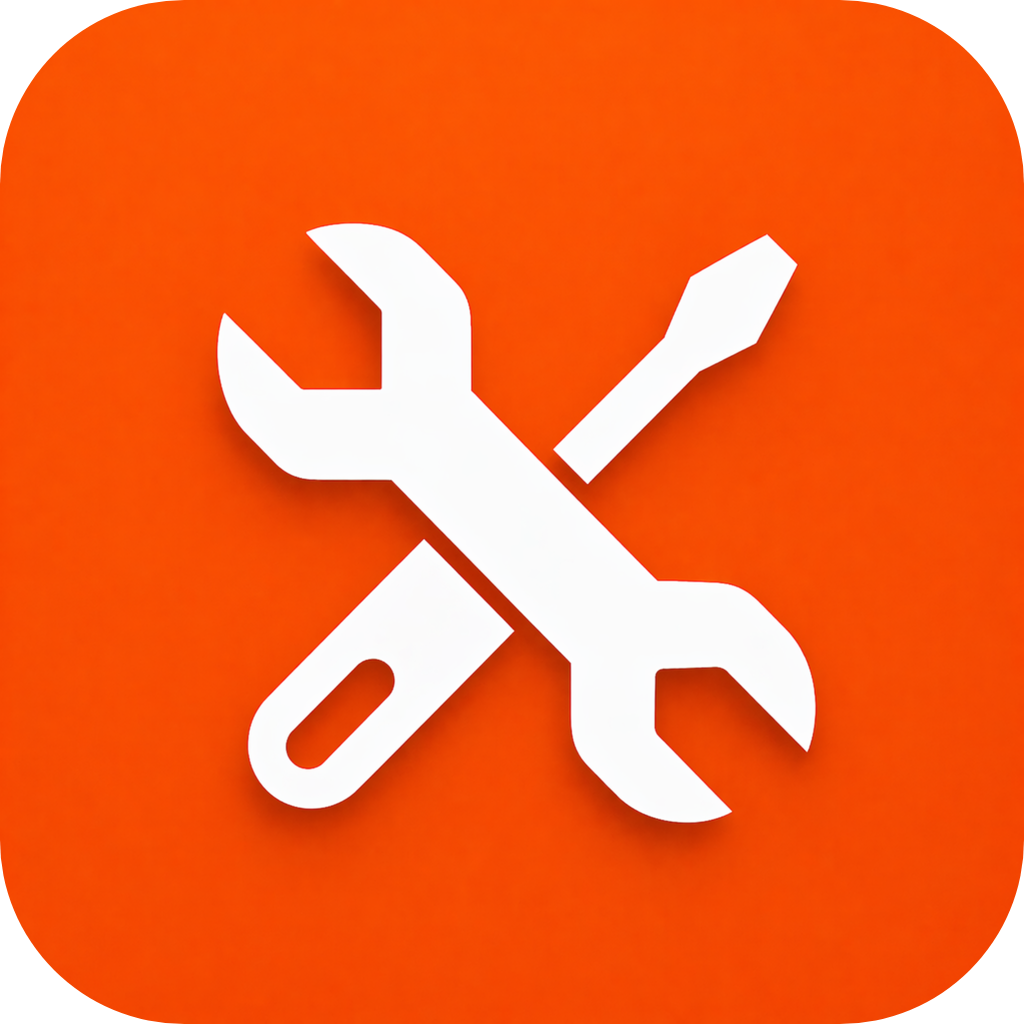
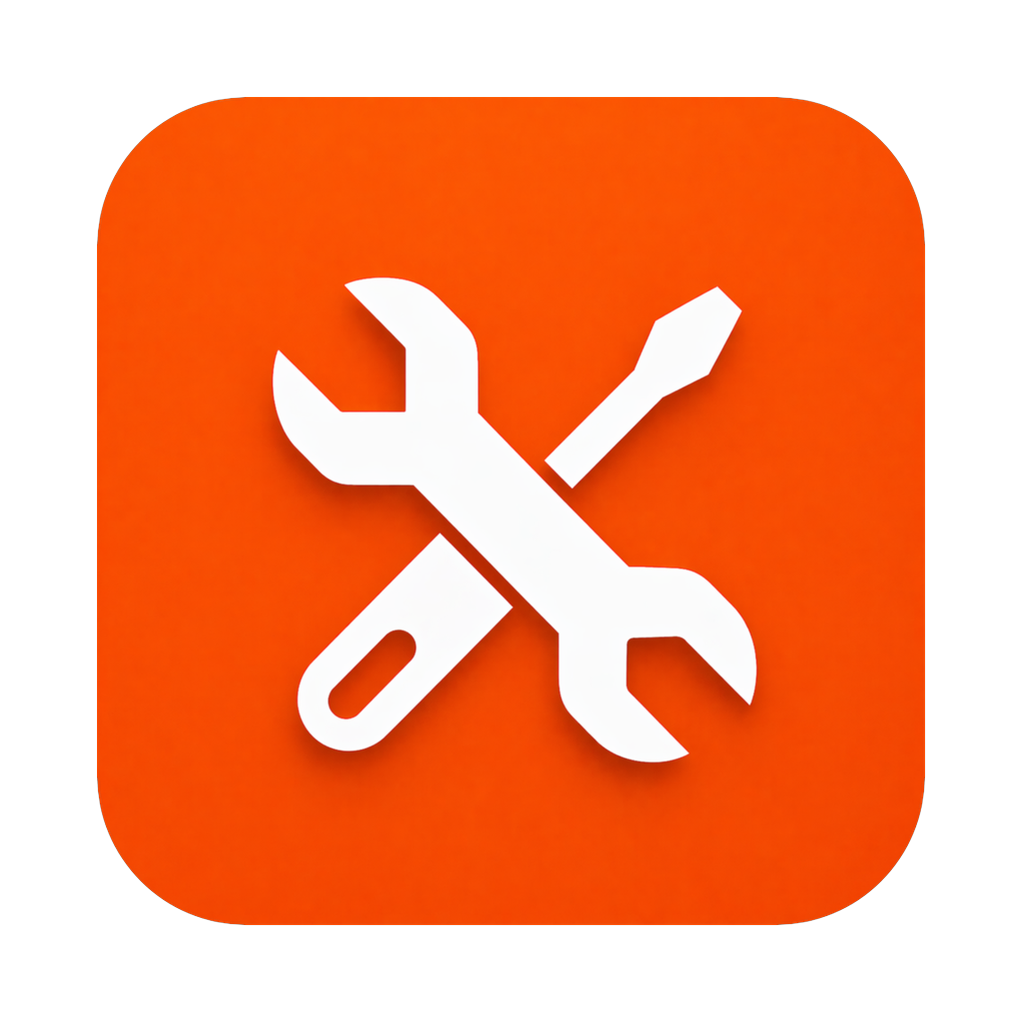
all mobile app filessს

diff --git a/src/screens/AdminScreen.js b/src/screens/AdminScreen.js
@@ -2,7 +2,7 @@
 import React, { useState, useCallback, useEffect } from 'react';
 import {
   View, Text, ScrollView, TouchableOpacity, ActivityIndicator,
-  RefreshControl, Alert, FlatList, TextInput, Modal,
+  RefreshControl, Alert, FlatList, TextInput, Modal, Switch,
 } from 'react-native';
 import { useFocusEffect } from '@react-navigation/native';
 import { useSafeAreaInsets } from 'react-native-safe-area-context';
@@ -189,11 +189,12 @@ function UserOffersModal({ userId, userName, visible, onClose, navigation }) {
 }
 
 // ────────── User detail modal ──────────
-function UserDetailModal({ userId, visible, onClose, onBlockToggle, navigation }) {
+function UserDetailModal({ userId, visible, onClose, onBlockToggle, navigation, isAdmin }) {
   const [user, setUser] = useState(null);
   const [loading, setLoading] = useState(false);
   const [showRequests, setShowRequests] = useState(false);
   const [showOffers, setShowOffers] = useState(false);
+  const [unlimitedToggling, setUnlimitedToggling] = useState(false);
 
   const load = useCallback(async () => {
     if (!userId) return;
@@ -207,6 +208,19 @@ function UserDetailModal({ userId, visible, onClose, onBlockToggle, navigation }
   useEffect(() => {
     if (visible) { setShowRequests(false); setShowOffers(false); load(); }
   }, [visible, userId]);
+
+  async function toggleStartUnlimited(value) {
+    if (unlimitedToggling || !user) return;
+    setUnlimitedToggling(true);
+    try {
+      await api(`/admin/users/${user.id}/start-unlimited`, { method: 'PATCH', body: { startUnlimited: value } });
+      setUser(prev => ({ ...prev, startUnlimited: value }));
+    } catch (e) {
+      Alert.alert('შეცდომა', e.error || 'ვერ შესრულდა');
+    } finally {
+      setUnlimitedToggling(false);
+    }
+  }
 
   if (!visible) return null;
 
@@ -313,6 +327,21 @@ function UserDetailModal({ userId, visible, onClose, onBlockToggle, navigation }
                       </View>
                     </View>
                   ) : null}
+                  {isAdmin ? (
+                    <View style={{ marginTop:12, paddingTop:12, borderTopWidth:1, borderTopColor:C.border, flexDirection:'row', alignItems:'center', justifyContent:'space-between' }}>
+                      <View style={{ flex:1, marginRight:12 }}>
+                        <Text style={{ color:C.text, fontWeight:'700', fontSize:13 }}>∞ ულიმიტო Start (3 თვე)</Text>
+                        <Text style={{ color:C.text2, fontSize:11, marginTop:2 }}>5 შეთ./30 დღის ლიმიტი გაუქმდება trial-ის განმავლობაში</Text>
+                      </View>
+                      <Switch
+                        value={!!user.startUnlimited}
+                        onValueChange={toggleStartUnlimited}
+                        disabled={unlimitedToggling}
+                        trackColor={{ false: C.border, true: C.accent }}
+                        thumbColor={'#fff'}
+                      />
+                    </View>
+                  ) : null}
                 </View>
               )}
 
@@ -388,7 +417,7 @@ function UserDetailModal({ userId, visible, onClose, onBlockToggle, navigation }
 }
 
 // ────────── Accounts tab ──────────
-function AccountsTab({ navigation }) {
+function AccountsTab({ navigation, isAdmin }) {
   const [users, setUsers] = useState([]);
   const [loading, setLoading] = useState(true);
   const [filter, setFilter] = useState('all');
@@ -490,6 +519,7 @@ function AccountsTab({ navigation }) {
         onClose={() => { setDetailVisible(false); setSelectedUserId(null); }}
         onBlockToggle={toggleBlock}
         navigation={navigation}
+        isAdmin={isAdmin}
       />
     </View>
   );
@@ -738,7 +768,7 @@ export default function AdminScreen({ navigation }) {
       {/* Content */}
       <View style={{ flex:1 }}>
         {tab === 'analytics' && isAdmin && <AnalyticsTab/>}
-        {tab === 'accounts'  && <AccountsTab navigation={navigation}/>}
+        {tab === 'accounts'  && <AccountsTab navigation={navigation} isAdmin={isAdmin}/>}
         {tab === 'requests'  && <RequestsTab navigation={navigation}/>}
         {tab === 'support'   && <SupportTab  navigation={navigation}/>}
         {tab === 'staff'     && <StaffTab    isAdmin={isAdmin}/>}

diff --git a/src/screens/SendOfferScreen.js b/src/screens/SendOfferScreen.js
@@ -46,20 +46,23 @@ export default function SendOfferScreen({ route, navigation }) {
           [{ text:'გაუქმება', style:'cancel' },{ text:'ტარიფები', onPress:()=>navigation.navigate('Vip') }]);
         return;
       }
-      try {
-        const myOffers = await api('/offers/mine');
-        // ✅ FIX #5: rolling 30-day window instead of calendar month
-        const thirtyDaysAgo = new Date(Date.now() - 30 * 24 * 60 * 60 * 1000);
-        const recentCount = (myOffers || []).filter(o =>
-          new Date(o.createdAt) >= thirtyDaysAgo
-        ).length;
-        if (recentCount >= 5) {
-          Alert.alert('💡 ბოლო 30 დღის შეთავაზებები ამოიწურა',
-            `Start ტარიფზე შეგიძლია 5 შეთავაზება/30 დღეში (${recentCount}/5). Pro ან TOP-ზე — ულიმიტო.`,
-            [{ text:'გაუქმება', style:'cancel' },{ text:'ტარიფები', onPress:()=>navigation.navigate('Vip') }]);
-          return;
-        }
-      } catch (_) {}
+      // Admin-granted unlimited mode: skip the monthly count check
+      if (!user.startUnlimited) {
+        try {
+          const myOffers = await api('/offers/mine');
+          // ✅ FIX #5: rolling 30-day window instead of calendar month
+          const thirtyDaysAgo = new Date(Date.now() - 30 * 24 * 60 * 60 * 1000);
+          const recentCount = (myOffers || []).filter(o =>
+            new Date(o.createdAt) >= thirtyDaysAgo
+          ).length;
+          if (recentCount >= 5) {
+            Alert.alert('💡 ბოლო 30 დღის შეთავაზებები ამოიწურა',
+              `Start ტარიფზე შეგიძლია 5 შეთავაზება/30 დღეში (${recentCount}/5). Pro ან TOP-ზე — ულიმიტო.`,
+              [{ text:'გაუქმება', style:'cancel' },{ text:'ტარიფები', onPress:()=>navigation.navigate('Vip') }]);
+            return;
+          }
+        } catch (_) {}
+      }
     }
 
     setLoading(true);